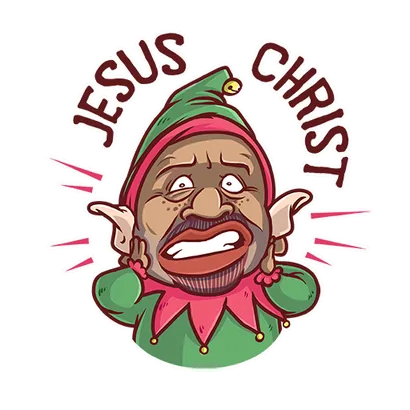
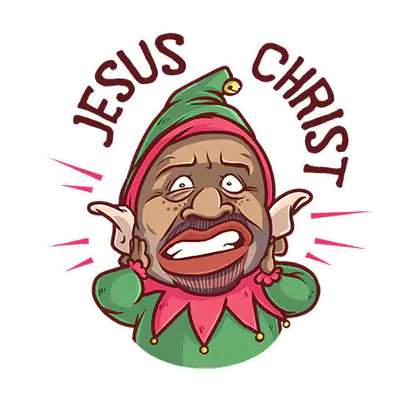
Front door: half the JavaScript, lighter stickers
The landing page downloaded the sign-in form, the footer's menu and an
animation library before anyone asked for them. Now:

- The garage door slides with a CSS transition, and the sign-in card fades
  in with a CSS animation; framer-motion is gone.
- The phone footer's ☰ menu shows a look-alike button until someone
  hovers, focuses or touches it; the click opens the real menu.
- The sign-in form loads from the moment the Enter button is hovered,
  focused or touched, not as soon as the page is idle.
- Forms are imported file by file, so one form doesn't pull in the others.

Landing JavaScript: 260 KB → 139 KB gzipped. The elf and Santa stickers
are re-encoded from their originals, 22% smaller.

diff --git a/src/components/GarageDoor.tsx b/src/components/GarageDoor.tsx
@@ -1,6 +1,4 @@
 import React from "react";
-import { AnimatePresence, motion, type ResolvedValues } from "framer-motion";
-
 
 type Props = {
   locked?: boolean;
@@ -9,45 +7,76 @@ type Props = {
   children?: React.ReactNode;
 }
 
-const variants = {
-  closed: {
-    top: 0,
-  },
-  open: {
-    top: '-105vh',
-  },
-};
+/** How long the door takes to go up or come down (the transition in src/styles/garage.css). */
+const DOOR_MS = 750;
 
+/**
+ * shut: the door is down and nothing is behind it. opening: it slides up, the page already behind it. open: it's gone.
+ * closing: it slides down over the page, which goes once it's shut.
+ */
+type Phase = "shut" | "opening" | "open" | "closing";
+
+const reducedMotion = () => window.matchMedia("(prefers-reduced-motion: reduce)").matches;
+
+/**
+ * The garage door over the app while nobody is signed in: it slides up on sign-in and comes down on sign-out. A CSS
+ * transition on its `top` (no animation library, so the front door doesn't download one); with reduced motion it
+ * just goes.
+ */
 export const GarageDoor = ({ locked, doorElement, doorRenderer, children }: Props) => {
-  const [shut, setShut] = React.useState(locked);
+  const [phase, setPhase] = React.useState<Phase>(locked ? "shut" : "open");
+  // Where the door is drawn: up, above the screen, or down over it. It changes a frame after the door shows up, so
+  // the move animates from where it was.
+  const [up, setUp] = React.useState(!locked);
 
   const door = React.useMemo(() => doorRenderer ? doorRenderer() : (doorElement ?? <div />), [doorElement]);
 
-  const onUpdate = React.useCallback(
-    ({ top }: ResolvedValues) => {
-      setShut(top === '0vh');
+  React.useEffect(
+    () => {
+      if (locked) {
+        if (phase === "shut" || phase === "closing") {
+          return;
+        }
+        setPhase("closing");
+        if (reducedMotion()) {
+          setUp(false);
+          setPhase("shut");
+          return;
+        }
+        // Drawn up first (where it was), then down.
+        let frame = requestAnimationFrame(() => { frame = requestAnimationFrame(() => setUp(false)); });
+        const done = setTimeout(() => setPhase("shut"), DOOR_MS);
+        return () => {
+          cancelAnimationFrame(frame);
+          clearTimeout(done);
+        };
+      }
+
+      if (phase === "open" || phase === "opening") {
+        return;
+      }
+      setPhase("opening");
+      setUp(true);
+      if (reducedMotion()) {
+        setPhase("open");
+        return;
+      }
+      const done = setTimeout(() => setPhase("open"), DOOR_MS);
+      return () => clearTimeout(done);
     },
-    [],
+    // Only a change of `locked` moves the door; `phase` is read for where it is now.
+    // eslint-disable-next-line react-hooks/exhaustive-deps
+    [locked],
   );
 
   return (
     <>
-      <AnimatePresence>
-        {locked && (
-          <motion.div
-            className="garage-door"
-            variants={variants}
-            initial={shut ? "closed" : "open"}
-            animate={locked ? "closed" : "open"}
-            exit="open"
-            transition={{ duration: 0.75 }}
-            onUpdate={onUpdate}
-          >
-            {door}
-          </motion.div>
-        )}
-      </AnimatePresence>
-      {!shut && <div className="garage-door-content">{children}</div>}
+      {phase !== "open" && (
+        <div className="garage-door" style={{ top: up ? "-105vh" : 0 }}>
+          {door}
+        </div>
+      )}
+      {phase !== "shut" && <div className="garage-door-content">{children}</div>}
     </>
   );
 };

diff --git a/src/components/hoc/Footer.tsx b/src/components/hoc/Footer.tsx
@@ -6,9 +6,10 @@ import { Link } from "react-router-dom";
 import { COMPACT_KEYS, moreTriggerClass } from "@/components/hoc/footerMenu";
 import { useCurrentUser, useUnrevealed } from "@/components/hooks";
 
-// The phone footer's ☰ menu brings Base UI's menu and its positioning: loaded on demand, with a look-alike button in
-// its place until then.
-const MoreMenu = React.lazy(() => import("@/components/hoc/FooterMoreMenu").then(m => ({ default: m.MoreMenu })));
+// The phone footer's ☰ menu brings Base UI's menu and its positioning: a look-alike button stands in until someone
+// reaches for it (hover, focus or a touch starts the download), and the click opens the real menu.
+const loadMoreMenu = () => import("@/components/hoc/FooterMoreMenu");
+const MoreMenu = React.lazy(() => loadMoreMenu().then(m => ({ default: m.MoreMenu })));
 
 type Props = {
   children?: React.ReactNode;
@@ -85,9 +86,7 @@ export const Footer = ({ children, aside, noUser, noHome, profileAsLink, profile
       <div className="footer-menu tablet:hidden">
         <FooterLinks items={inline} />
         <span> | </span>
-        <React.Suspense fallback={<MoreMenuPlaceholder />}>
-          <MoreMenu items={more} dot={toReveal > 0 && more.some(({ key }) => key === "profile")} />
-        </React.Suspense>
+        <DeferredMoreMenu items={more} dot={toReveal > 0 && more.some(({ key }) => key === "profile")} />
       </div>
       {aside}
       <div className="footer-copy text-xs">
@@ -122,8 +121,35 @@ const FooterLinks = ({ items }: { items: MenuItem[] }) => (
 );
 
 /** The ☰ button as it looks, for the moment before its menu has loaded. */
-const MoreMenuPlaceholder = () => (
-  <button type="button" className={`${moreTriggerClass} relative`} aria-label="More links" title="More links" disabled>
-    <MenuIcon size={18} aria-hidden="true" />
-  </button>
-);
+/** The ☰ button before the menu's code is loaded: it looks the same, and its click opens the real menu. */
+const DeferredMoreMenu = ({ items, dot }: { items: MenuItem[]; dot: boolean }) => {
+  const [wanted, setWanted] = React.useState(false);
+  const prefetch = React.useCallback(() => void loadMoreMenu(), []);
+
+  const button = (
+    <button
+      type="button"
+      className={`${moreTriggerClass} relative`}
+      aria-label={dot ? "More links, with parties to reveal" : "More links"}
+      title="More links"
+      aria-haspopup="menu"
+      disabled={wanted}
+      onPointerEnter={prefetch}
+      onPointerDown={prefetch}
+      onFocus={prefetch}
+      onClick={() => setWanted(true)}
+    >
+      <MenuIcon size={18} aria-hidden="true" />
+      {dot && <span aria-hidden="true" className="absolute -top-0.5 -right-1 size-2 rounded-full bg-red-500" />}
+    </button>
+  );
+
+  if (!wanted) {
+    return button;
+  }
+  return (
+    <React.Suspense fallback={button}>
+      <MoreMenu items={items} dot={dot} defaultOpen />
+    </React.Suspense>
+  );
+};

diff --git a/src/components/hoc/LoginBox.tsx b/src/components/hoc/LoginBox.tsx
@@ -9,18 +9,14 @@ import { UnsplashCredit } from "@/components/UnsplashCredit";
 import { Footer } from "@/components/hoc/Footer";
 import { TINTS, usePageTint } from "@/components/hooks";
 
-// The sign-in form loads on its own: in the background once the page is idle, or as soon as the Enter button is hovered
-// or focused, so it's there by the click without holding up the front door's first paint.
+// The sign-in form (its dialog and the form libraries) loads only for someone heading for it: from the moment the Enter
+// button is hovered, focused or touched. Most visitors read the front door and leave, so it stays off the page's
+// download; the button shows busy if the code is still on its way at the click.
 const loadEnterForm = () => import("@/components/hoc/EnterForm");
 const EnterForm = React.lazy(() => loadEnterForm().then(m => ({ default: m.EnterForm })));
 
 export const LoginBox = () => {
   usePageTint(TINTS.loginDoor);
-
-  React.useEffect(() => {
-    const idle = window.requestIdleCallback ?? ((load: () => void) => setTimeout(load, 1500));
-    idle(() => void loadEnterForm());
-  }, []);
 
   return (
     <Landing
@@ -91,7 +87,7 @@ const EnterActions = ({ label = "Enter with your email address" }: { label?: str
   }, [navigate]);
 
   return (
-    <Button variant="brand" size="lg" surface="dark" pill loading={busy} onClick={onLoginClick} onPointerEnter={loadEnterForm} onFocus={loadEnterForm}>
+    <Button variant="brand" size="lg" surface="dark" pill loading={busy} onClick={onLoginClick} onPointerEnter={loadEnterForm} onPointerDown={loadEnterForm} onFocus={loadEnterForm}>
       {label}
     </Button>
   );

diff --git a/src/components/GrinchBox.tsx b/src/components/GrinchBox.tsx
@@ -1,5 +1,4 @@
 import { Dialog } from '@base-ui/react/dialog';
-import { motion } from 'framer-motion';
 import React from 'react';
 import { useNavigate } from 'react-router-dom';
 import { X } from 'react-feather';
@@ -19,12 +18,8 @@ type Props = {
 
 export const GrinchBox = ({ closeTo, inDialog = false, children }: Props) => (
   <Container textAlign="centered" className="grinch-box">
-    <motion.div
-      initial={{ opacity: 0, scale: 0.95 }}
-      animate={{ opacity: 1, scale: 1 }}
-      // In step with the backdrop and the page stepping back behind a dialog (src/styles/garage.css).
-      transition={{ duration: 0.25, ease: "easeOut" }}
-    >
+    {/* Fades and grows in, in step with the backdrop and the page stepping back behind a dialog (src/styles/garage.css). */}
+    <div className="animate-in fade-in zoom-in-95 duration-250 ease-out motion-reduce:animate-none">
       <Card>
         {closeTo && <CloseX to={closeTo} onEscape={!inDialog} />}
         <Card.Content>
@@ -35,7 +30,7 @@ export const GrinchBox = ({ closeTo, inDialog = false, children }: Props) => (
           </Content>
         </Card.Content>
       </Card>
-    </motion.div>
+    </div>
   </Container>
 );
 

diff --git a/src/components/hoc/StartPage.tsx b/src/components/hoc/StartPage.tsx
@@ -1,4 +1,3 @@
-import { AnimatePresence } from "framer-motion";
 import { Columns, Container, Content, Hero } from "@/components/layout";
 import { Link, Route, Routes } from "react-router-dom";
 
@@ -75,14 +74,12 @@ export const StartPage = () => {
             <Columns.Column size={1} touch={{ display: "hidden" }}>&nbsp;</Columns.Column>
           </Columns>
 
-          <AnimatePresence>
-            <Routes>
-              <Route path="/new/" Component={NewParty} />
-              <Route path="/join/" Component={JoinParty} />
-              <Route path="/profile/*" Component={MyProfile} />
-              <Route path="/rolled/:code" Component={RolledDialog} />
-            </Routes>
-          </AnimatePresence>
+          <Routes>
+            <Route path="/new/" Component={NewParty} />
+            <Route path="/join/" Component={JoinParty} />
+            <Route path="/profile/*" Component={MyProfile} />
+            <Route path="/rolled/:code" Component={RolledDialog} />
+          </Routes>
 
         </Container>
       </Hero.Body>

diff --git a/src/components/hoc/FooterMoreMenu.tsx b/src/components/hoc/FooterMoreMenu.tsx
@@ -7,8 +7,9 @@ import { moreTriggerClass } from "@/components/hoc/footerMenu";
 import { menuItemClass, menuPopupClass, menuPositionerClass } from "@/components/ui/menu";
 
 /** The footer's other links in a small menu that opens upwards. */
-export const MoreMenu = ({ items, dot = false }: { items: MenuItem[]; dot?: boolean }) => (
-  <Menu.Root>
+export const MoreMenu = ({ items, dot = false, defaultOpen = false }: { items: MenuItem[]; dot?: boolean; defaultOpen?: boolean }) => (
+  // `defaultOpen`: mounted by the click on the look-alike button (Footer), so it opens straight away.
+  <Menu.Root defaultOpen={defaultOpen}>
     <Menu.Trigger className={`${moreTriggerClass} relative`} aria-label={dot ? "More links, with parties to reveal" : "More links"} title="More links">
       <MenuIcon size={18} aria-hidden="true" />
       {/* "My Profile" inside has a dot: show it here too. */}

diff --git a/src/styles/garage.css b/src/styles/garage.css
@@ -12,6 +12,12 @@
   /* The door is the page while it's shut: content taller than the window scrolls inside it. */
   overflow-y: auto;
   overscroll-behavior: contain;
+  /* Up on sign-in, down on sign-out (GarageDoor sets `top`; DOOR_MS there is this duration). */
+  transition: top 750ms ease-in-out;
+
+  @media (prefers-reduced-motion: reduce) {
+    transition: none;
+  }
 }
 
 /* The page steps back behind the sign-in dialog (useSteppedBack in src/components/GrinchBox.tsx): on desktop it
@@ -24,7 +30,7 @@
 
   html[data-behind] .garage-door {
     clip-path: inset(0 0 round 0);
-    transition: transform 250ms ease-out, clip-path 250ms ease-out;
+    transition: top 750ms ease-in-out, transform 250ms ease-out, clip-path 250ms ease-out;
 
     @media (prefers-reduced-motion: reduce) {
       transition: none;

diff --git a/src/components/hoc/MyProfile.tsx b/src/components/hoc/MyProfile.tsx
@@ -11,7 +11,10 @@ import * as v from "valibot";
 import { DialogBox, DialogFooterStart } from "@/components/DialogBox";
 import { DialogCharacter } from "@/components/DialogCharacter";
 import { Tab, Tabs } from "@/components/Tab";
-import { Form, FormFieldContext, Input, Submit } from "@/components/forms";
+import { Form } from "@/components/forms/Form";
+import { FormFieldContext } from "@/components/forms/FormField";
+import { Input } from "@/components/forms/Input";
+import { Submit } from "@/components/forms/Submit";
 import { maxLen, required, validEmail } from "@/components/forms/messages";
 import { useNotifications } from "@/components/hoc/NotificationsContainer";
 import { useAppClient, useCurrentUser, useSignals, useTabletUp } from "@/components/hooks";

diff --git a/src/components/hoc/JoinBox.tsx b/src/components/hoc/JoinBox.tsx
@@ -9,7 +9,10 @@ import * as v from "valibot";
 import { GrinchBox } from "@/components/GrinchBox";
 import { SnowConfetti } from "@/components/SnowConfetti";
 import { UnsplashCredit } from "@/components/UnsplashCredit";
-import { Form, FormField, Input, Submit } from "@/components/forms";
+import { Form } from "@/components/forms/Form";
+import { FormField } from "@/components/forms/FormField";
+import { Input } from "@/components/forms/Input";
+import { Submit } from "@/components/forms/Submit";
 import { maxLen, required, validEmail } from "@/components/forms/messages";
 import { Footer } from "@/components/hoc/Footer";
 import { TINTS, useAppClient, useCurrentUser, usePageTint, useSignals } from "@/components/hooks";

diff --git a/src/components/hoc/AccountLinks.tsx b/src/components/hoc/AccountLinks.tsx
@@ -8,7 +8,10 @@ import { ClipLoader } from 'react-spinners';
 import { NO_KEY_MESSAGE, newSessionKey } from "@/api/dpop";
 import { GrinchBox } from "@/components/GrinchBox";
 import { SnowConfetti } from "@/components/SnowConfetti";
-import { Form, FormField, Input, Submit } from "@/components/forms";
+import { Form } from "@/components/forms/Form";
+import { FormField } from "@/components/forms/FormField";
+import { Input } from "@/components/forms/Input";
+import { Submit } from "@/components/forms/Submit";
 import { LoginHero } from "@/components/hoc/LoginBox";
 import { useAppClient, useCurrentUser } from "@/components/hooks";
 import type { LinkResult, Session } from "@/components/hooks/useAppClient";

diff --git a/src/components/hoc/NewParty.tsx b/src/components/hoc/NewParty.tsx
@@ -6,7 +6,10 @@ import * as v from "valibot";
 import type { Party } from "@/types";
 import { DialogBox } from "@/components/DialogBox";
 import { HaveQuestion } from "@/components/HaveQuestion";
-import { DateTimeInput, FormField, Input, Submit } from "@/components/forms";
+import { DateTimeInput } from "@/components/forms/DateTimeInput";
+import { FormField } from "@/components/forms/FormField";
+import { Input } from "@/components/forms/Input";
+import { Submit } from "@/components/forms/Submit";
 import { maxLen, required } from "@/components/forms/messages";
 import { useAppClient, useCopyPartyLink } from "@/components/hooks";
 import { useNavigate } from "react-router-dom";

diff --git a/src/components/hoc/EnterForm.tsx b/src/components/hoc/EnterForm.tsx
@@ -5,7 +5,10 @@ import * as v from "valibot";
 import { newKey } from "@/api/client";
 import { GrinchDialog } from "@/components/GrinchBox";
 import { SnowConfetti } from "@/components/SnowConfetti";
-import { Form, FormField, Input, Submit } from "@/components/forms";
+import { Form } from "@/components/forms/Form";
+import { FormField } from "@/components/forms/FormField";
+import { Input } from "@/components/forms/Input";
+import { Submit } from "@/components/forms/Submit";
 import { maxLen, required, validEmail } from "@/components/forms/messages";
 import { useNotifications } from "@/components/hoc/NotificationsContainer";
 import { useAppClient } from "@/components/hooks";
